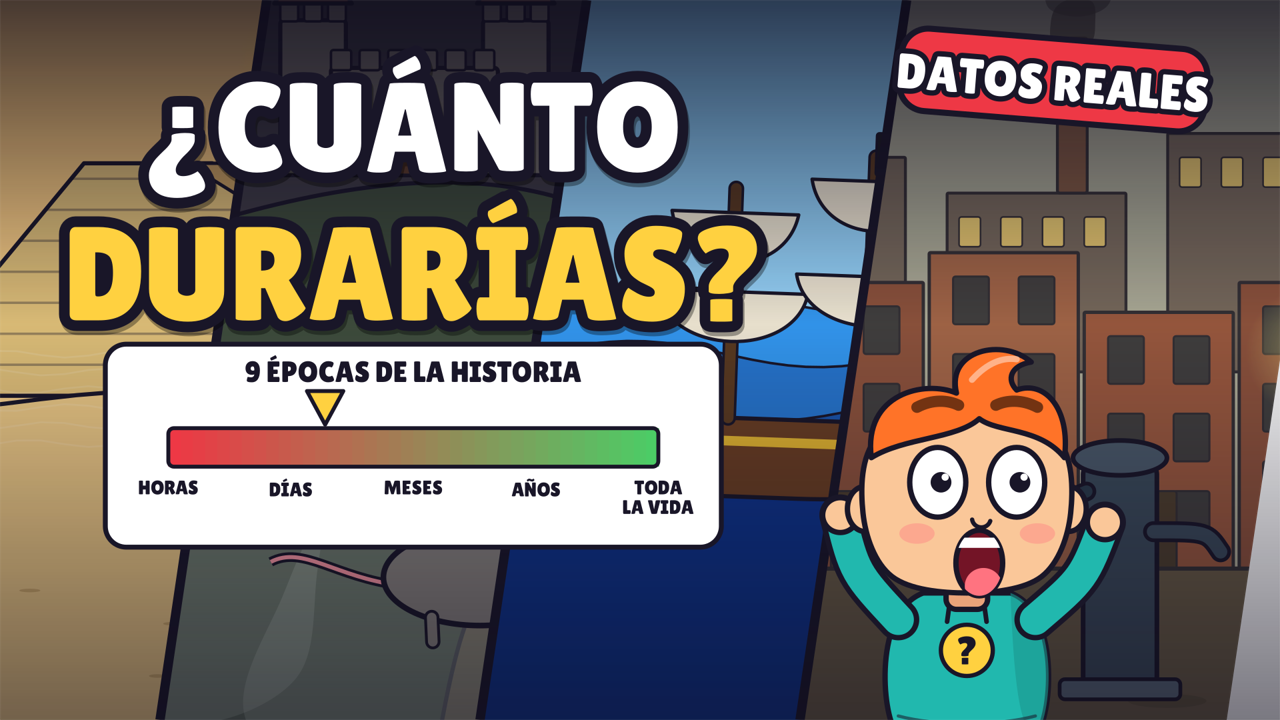
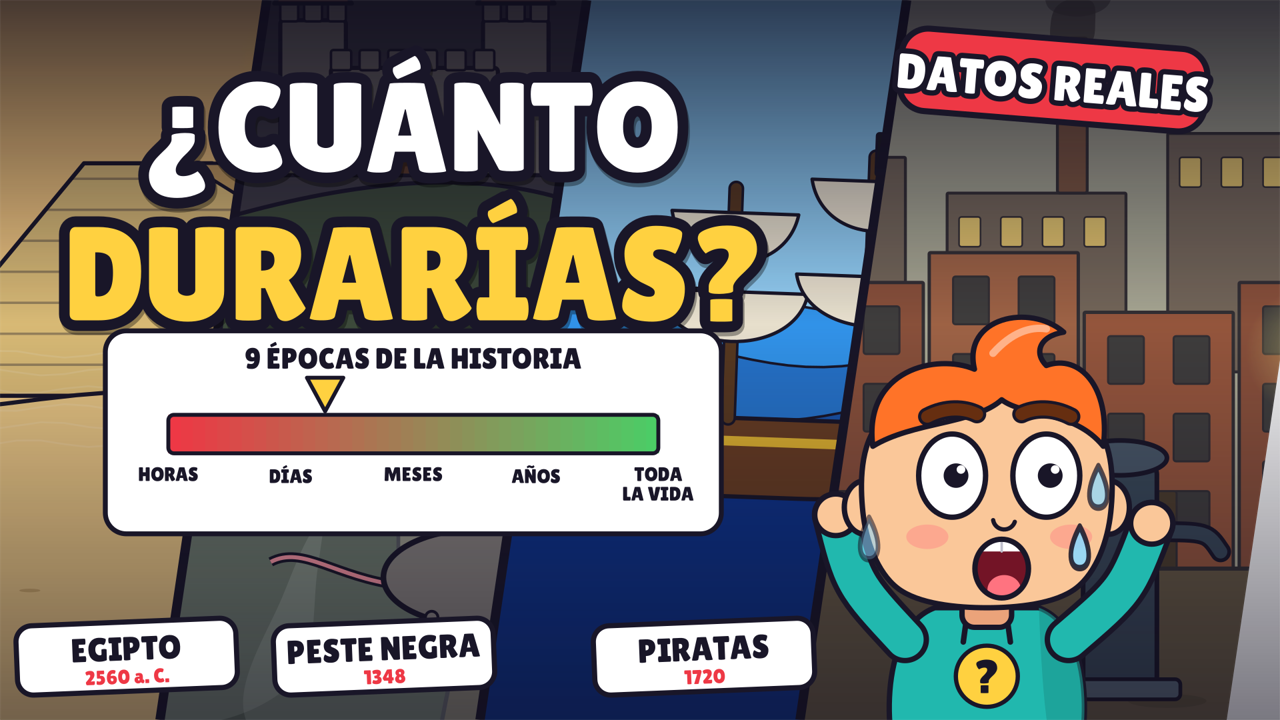
Miniatura del vídeo largo mejorada y cara de Leo corregida
- Cejas ancladas encima de los ojos (antes subían hasta el flequillo con sorpresa) y con contorno.
- Boca abierta limitada entre nariz y barbilla; dientes y lengua dentro de la boca, contorno repasado.
- Miniatura: Leo más grande y sudando, etiquetas de época en cada franja.

Claude-Session: https://claude.ai/code/session_01W9jhuZ8HBiQoqnQYnxHSNn

Changed region(s): [[0.4375, 0.4278, 0.9375, 1.0], [0.0625, 0.4583, 0.5625, 0.7639], [0.0, 0.8556, 0.4062, 0.9778]]

diff --git a/fabrica/visuals/character.py b/fabrica/visuals/character.py
@@ -829,18 +829,22 @@ class Character:
             "dizzy": (0.12, -0.2), "laugh": (0.12, 0.0), "happy_closed": (0.1, 0.0), "tired": (0.0, -0.15),
         }.get(ex, (0.05, 0.0))
         raise_, tilt = brow
+        # anclaje: justo encima del ojo (antes, a altura fija: con sorpresa se metían en el flequillo)
+        eye_top = hy - 0.18 - (0.34 if big else 0.30)
         for s in (-1, 1):
             cx = hx + 0.38 * s + fx
-            y0 = hy - 0.6 - raise_
-            ctx.move_to(cx - 0.2 * s - 0.0, y0 + (tilt * 0.12 if s == -1 else tilt * 0.12) * (1))
+            y0 = eye_top - 0.08 - 0.22 * raise_
             inner_y = y0 + tilt * 0.12
             outer_y = y0 - tilt * 0.08
             ctx.new_path()
             ctx.move_to(cx + 0.2 * s, outer_y)
             ctx.curve_to(cx + 0.05 * s, outer_y - 0.08, cx - 0.1 * s, inner_y - 0.05, cx - 0.2 * s, inner_y)
-            ctx.set_source_rgb(*darken(self.p["hair"], 0.55))
-            ctx.set_line_width(0.11)
+            ctx.set_source_rgb(*INK)  # contorno fino para que se lean sobre el pelo
+            ctx.set_line_width(0.15)
             ctx.set_line_cap(cairo.LINE_CAP_ROUND)
+            ctx.stroke_preserve()
+            ctx.set_source_rgb(*darken(self.p["hair"], 0.6))
+            ctx.set_line_width(0.1)
             ctx.stroke()
 
     def _mouth(self, ctx, pose: Pose, lw, fx):
@@ -855,35 +859,48 @@ class Character:
                     "laugh": 0.2, "excited": 0.14}.get(ex, 0.0)
             h = max(base, 0.05 + 0.3 * o)
             w = 0.3 if ex in ("surprised", "scared", "shock", "wow") else 0.36 + 0.06 * o
-            if ex in ("happy", "excited", "laugh", "smug", "determined", "neutral", "hot", "happy_closed"):
-                # boca en D (sonriente hablando)
-                ctx.new_path()
-                ctx.move_to(mx - w, my - 0.05)
-                ctx.curve_to(mx - w * 0.6, my - 0.1, mx + w * 0.6, my - 0.1, mx + w, my - 0.05)
-                ctx.curve_to(mx + w * 0.9, my + h * 1.5, mx - w * 0.9, my + h * 1.5, mx - w, my - 0.05)
-                ctx.close_path()
+            d_shape = ex in ("happy", "excited", "laugh", "smug", "determined", "neutral", "hot", "happy_closed")
+            if d_shape:
+                h = min(h, 0.24)  # que no se salga por la barbilla (está en hy + 0.9)
             else:
-                ellipse(ctx, mx, my + h * 0.4, w * 0.75, h)
-            fill_stroke(ctx, (0.45, 0.08, 0.15), lw)
-            with saved(ctx):
-                if ex in ("happy", "excited", "laugh", "smug", "determined", "neutral", "hot", "happy_closed"):
-                    ctx.new_path()
+                h = min(h, 0.24 if ex in ("shock", "scared") else 0.2)
+            oy = my + 0.1  # centro de la boca ovalada: entre la nariz (hy + 0.26) y la barbilla
+
+            def shape():
+                ctx.new_path()
+                if d_shape:  # boca en D (sonriente hablando)
                     ctx.move_to(mx - w, my - 0.05)
                     ctx.curve_to(mx - w * 0.6, my - 0.1, mx + w * 0.6, my - 0.1, mx + w, my - 0.05)
                     ctx.curve_to(mx + w * 0.9, my + h * 1.5, mx - w * 0.9, my + h * 1.5, mx - w, my - 0.05)
                     ctx.close_path()
                 else:
-                    ellipse(ctx, mx, my + h * 0.4, w * 0.75, h)
+                    ellipse(ctx, mx, oy, w * 0.72, h)
+
+            shape()
+            ctx.set_source_rgb(0.45, 0.08, 0.15)
+            ctx.fill()
+            with saved(ctx):
+                shape()
                 ctx.clip()
-                # dientes y lengua
-                rrect(ctx, mx - w, my - 0.12, 2 * w, 0.1, 0.03)
+                # dientes de arriba (fila corta con separación) y lengua al fondo
+                top = (my - 0.09) if d_shape else (oy - h)
+                tw = w * (1.7 if d_shape else 1.2)
+                rrect(ctx, mx - tw / 2, top - 0.02, tw, 0.1 if d_shape else 0.12, 0.03)
                 ctx.set_source_rgb(1, 1, 1)
                 ctx.fill()
-                ellipse(ctx, mx + 0.04, my + h * 1.1, w * 0.6, h * 0.55)
+                ctx.move_to(mx, top - 0.02)
+                ctx.line_to(mx, top + (0.08 if d_shape else 0.1))
+                ctx.set_source_rgba(0.75, 0.75, 0.8, 1)
+                ctx.set_line_width(0.02)
+                ctx.stroke()
+                ty = (my + h * 1.15) if d_shape else (oy + h * 0.72)
+                ellipse(ctx, mx + 0.02, ty, w * (0.55 if d_shape else 0.45), h * 0.5)
                 ctx.set_source_rgb(1.0, 0.45, 0.5)
                 ctx.fill()
-                if ex == "hot":
-                    pass
+            shape()
+            ctx.set_source_rgb(*INK)
+            ctx.set_line_width(lw)
+            ctx.stroke()
         else:
             ctx.new_path()
             if ex in ("worried", "scared", "tired", "dizzy"):

diff --git a/scripts/thumbnail_epocas.py b/scripts/thumbnail_epocas.py
@@ -64,15 +64,27 @@ def main():
     g.add_color_stop_rgba(1, 0.05, 0.04, 0.1, 0.55)
     ctx.set_source(g)
     ctx.fill()
-    # Leo asustado, grande, abajo a la derecha
-    p = act("shock", 0.4, 2, Pose(x=1450, y=1240, scale=1.55, expression="shock", outfit="casual"))
-    p.mouth_open = 0.9
+    # etiqueta de cada época al pie de su franja (la última la tapa Leo)
+    tags = [("EGIPTO", "2560 a. C."), ("PESTE NEGRA", "1348"), ("PIRATAS", "1720")]
+    for i, (name, year) in enumerate(tags):
+        x = max(190, i * W / n + W / n / 2 - slant * 0.9)
+        with saved(ctx):
+            ctx.translate(x, 985)
+            ctx.rotate(-0.04)
+            rrect(ctx, -165, -52, 330, 104, 24)
+            fill_stroke(ctx, (1, 1, 1), OUT * 1.1)
+            text(ctx, name, 0, -12, 50, color=INK, outline=0, shadow_off=0, max_w=300)
+            text(ctx, year, 0, 30, 30, color=PAL["red"], outline=0, shadow_off=0)
+    # Leo asustado, grande, abajo a la derecha, sudando
+    p = act("shock", 0.4, 2, Pose(x=1480, y=1330, scale=1.85, expression="shock", outfit="casual", sweat=1.0))
+    p.mouth_open = 1.0
+    p.blink = 0
     Character().draw(ctx, p)
     # título
     text(ctx, "¿CUÁNTO", 620, 190, 190, color="white", outline=16, font="Lilita One")
     text(ctx, "DURARÍAS?", 620, 390, 200, color=PAL["yellow"], outline=16, font="Lilita One")
     # medidor
-    draw_prop(ctx, {"type": "survival_meter", "x": 620, "y": 700, "abs": True, "scale": 1.05, "value": 0.32,
+    draw_prop(ctx, {"type": "survival_meter", "x": 620, "y": 680, "abs": True, "scale": 1.05, "value": 0.32,
                     "label": "9 ÉPOCAS DE LA HISTORIA", "enter": "none", "animate": False}, 2.0)
     with saved(ctx):
         ctx.translate(1580, 120)
